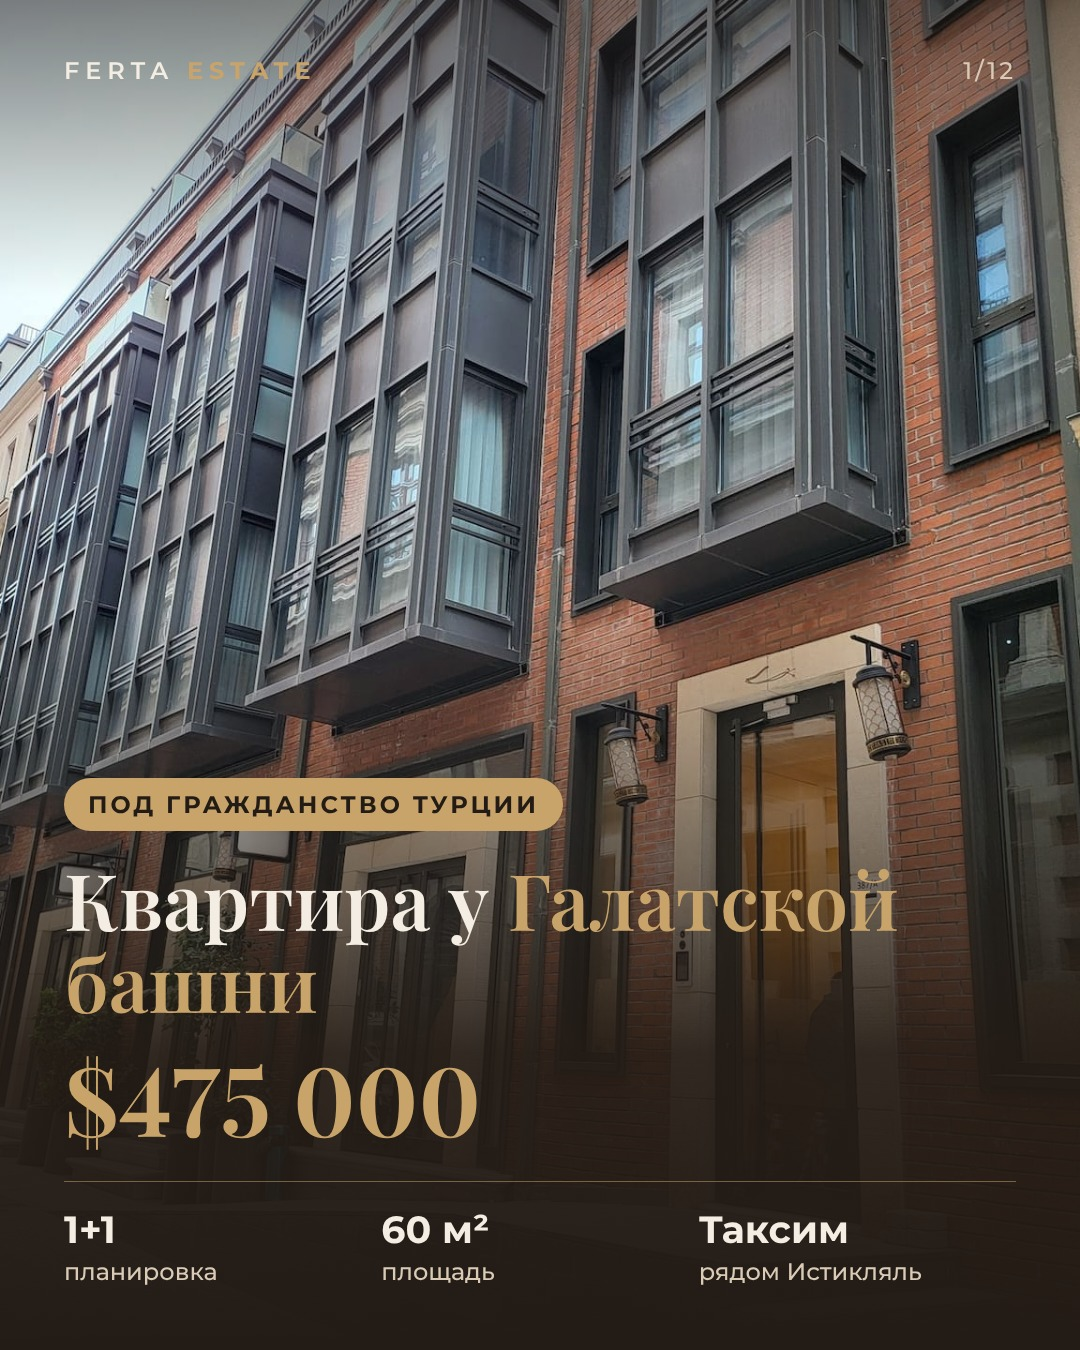
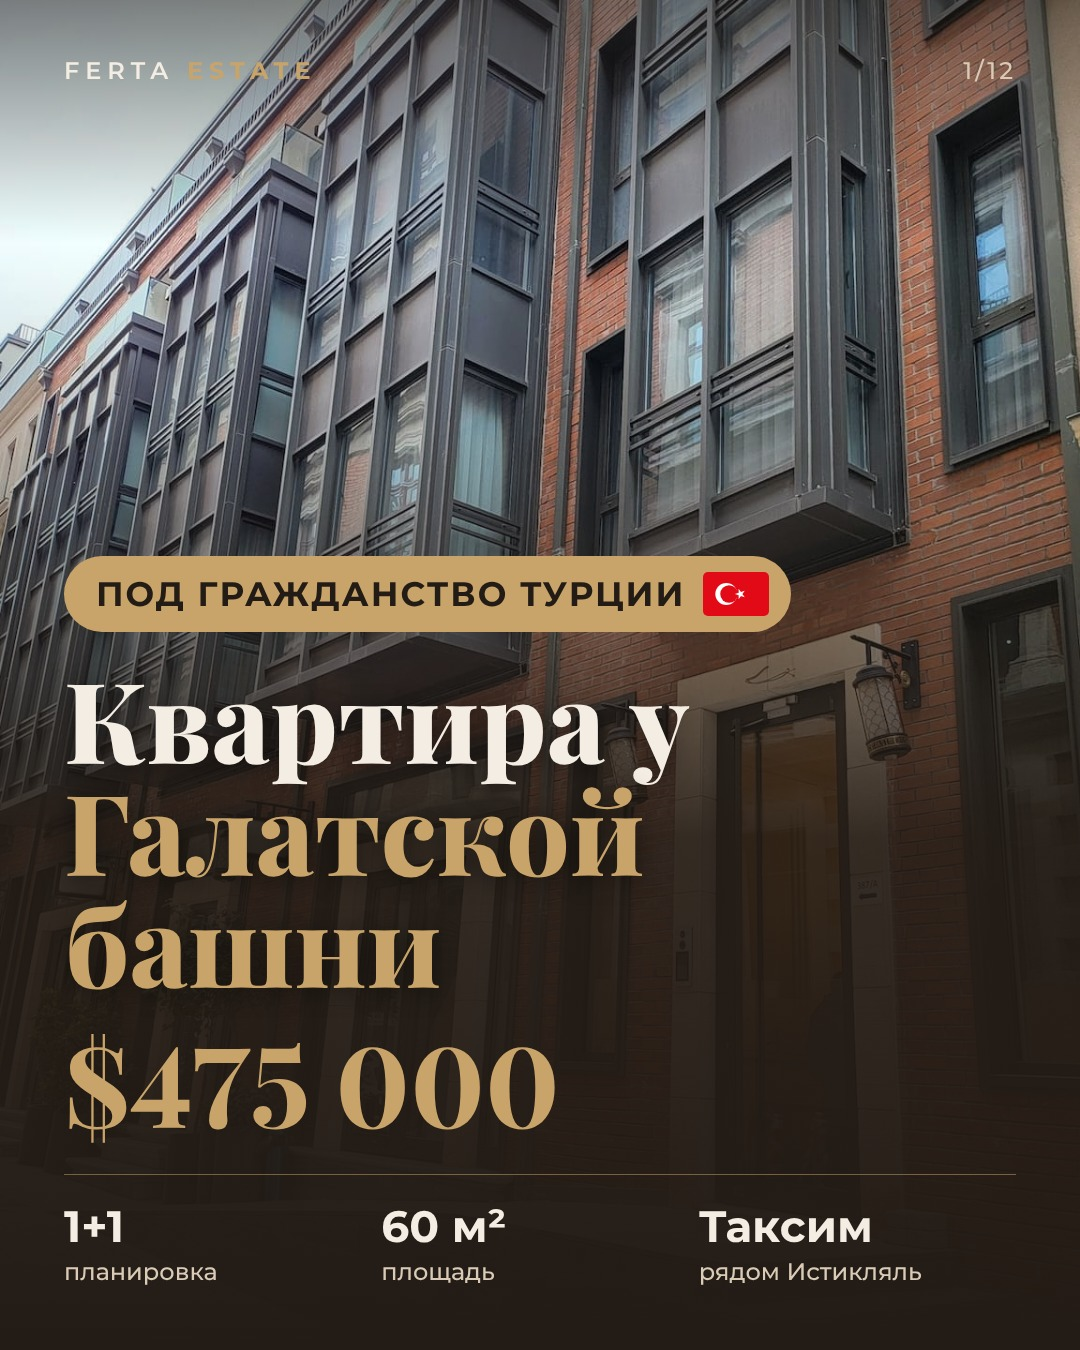
Carousel cover: larger bolder text, Turkish flag
Claude-Session: https://claude.ai/code/session_014JnKEStfJ9TnKLy2zJyemL

diff --git a/carousel/carousel.html b/carousel/carousel.html
@@ -1,5 +1,5 @@
 <!doctype html><html><head><meta charset="utf-8">
-<link href="https://fonts.googleapis.com/css2?family=Playfair+Display:wght@500;600;700&family=Montserrat:wght@400;500;600;700&display=swap" rel="stylesheet">
+<link href="https://fonts.googleapis.com/css2?family=Playfair+Display:wght@500;600;700;800;900&family=Montserrat:wght@400;500;600;700&display=swap" rel="stylesheet">
 <style>
 :root{ --dark:#231B15; --cream:#F4EDE3; --gold:#C9A46A; --muted:#D9CBB6; }
 *{margin:0;padding:0;box-sizing:border-box}
@@ -7,19 +7,20 @@ body{font-variant-numeric:lining-nums;width:1080px;height:1350px;overflow:hidden
 .s{position:absolute;inset:0;display:none}
 .s.on{display:block}
 .bg{position:absolute;inset:0;width:100%;height:100%;object-fit:cover}
-.shade{position:absolute;inset:0;background:linear-gradient(180deg,rgba(35,27,21,.55) 0%,rgba(35,27,21,0) 22%,rgba(35,27,21,0) 45%,rgba(35,27,21,.92) 78%,var(--dark) 100%)}
+.shade{position:absolute;inset:0;background:linear-gradient(180deg,rgba(35,27,21,.55) 0%,rgba(35,27,21,0) 18%,rgba(35,27,21,.15) 32%,rgba(35,27,21,.9) 62%,var(--dark) 100%)}
 .shade.light{background:linear-gradient(180deg,rgba(35,27,21,.45) 0%,rgba(35,27,21,0) 18%,rgba(35,27,21,0) 72%,rgba(35,27,21,.85) 100%)}
 .brand{position:absolute;top:56px;left:64px;font-size:24px;font-weight:600;letter-spacing:6px;text-transform:uppercase}
 .brand b{color:var(--gold)}
 .num{position:absolute;top:56px;right:64px;font-size:24px;font-weight:500;letter-spacing:3px;color:var(--muted)}
 .cover{position:absolute;left:64px;right:64px;bottom:64px}
-.pill{display:inline-block;background:var(--gold);color:var(--dark);font-weight:700;font-size:24px;letter-spacing:3px;text-transform:uppercase;padding:12px 24px;border-radius:40px}
-h1{font-family:'Playfair Display',serif;font-weight:600;font-size:78px;line-height:1.05;margin:28px 0 26px}
+.pill{display:inline-flex;align-items:center;gap:18px;background:var(--gold);color:var(--dark);font-weight:800;font-size:34px;letter-spacing:2px;text-transform:uppercase;padding:16px 22px 16px 32px;border-radius:50px}
+.pill svg{width:66px;height:44px;border-radius:5px;display:block}
+h1{font-family:'Playfair Display',serif;font-weight:800;font-size:112px;line-height:1;margin:30px 0 28px;text-shadow:0 4px 24px rgba(0,0,0,.45)}
 h1 i{color:var(--gold);font-style:normal}
-.price{font-family:'Playfair Display',serif;font-size:96px;font-weight:700;color:var(--gold);line-height:1}
+.price{font-family:'Playfair Display',serif;font-size:112px;font-weight:800;color:var(--gold);line-height:1}
 .grid{display:grid;grid-template-columns:repeat(3,1fr);gap:0;margin-top:36px;border-top:1px solid rgba(201,164,106,.5)}
 .grid div{padding:24px 0 0;font-size:24px;color:var(--muted);font-weight:500}
-.grid div strong{display:block;font-size:38px;color:var(--cream);font-weight:700;margin-bottom:4px}
+.grid div strong{display:block;font-size:44px;color:var(--cream);font-weight:700;margin-bottom:4px}
 .cap{position:absolute;left:64px;right:64px;bottom:64px}
 .cap .k{font-size:22px;letter-spacing:5px;text-transform:uppercase;color:var(--gold);font-weight:600}
 .cap .t{font-family:'Playfair Display',serif;font-size:58px;font-weight:600;margin-top:10px}
@@ -48,7 +49,7 @@ const slides=[
 const n=+new URLSearchParams(location.search).get('n')||1, s=slides[n-1], total=slides.length;
 let h=`<div class="s on"><img class="bg" src="img/${s.img}">`;
 if(s.cover) h+=`<div class="shade"></div><div class="brand">Ferta <b>Estate</b></div><div class="num">${n}/${total}</div>
- <div class="cover"><span class="pill">Под гражданство Турции</span>
+ <div class="cover"><span class="pill">Под гражданство Турции <svg viewBox="0 0 30 20"><rect width="30" height="20" fill="#E30A17"/><circle cx="10.6" cy="10" r="5" fill="#fff"/><circle cx="11.85" cy="10" r="4" fill="#E30A17"/><polygon fill="#fff" points="14.5,10 18.97,8.55 16.2,12.35 16.2,7.65 18.97,11.45"/></svg></span>
  <h1>Квартира у <i>Галатской башни</i></h1>
  <div class="price">$475 000</div>
  <div class="grid"><div><strong>1+1</strong>планировка</div><div><strong>60 м²</strong>площадь</div><div><strong>Таксим</strong>рядом Истикляль</div></div></div>`;
